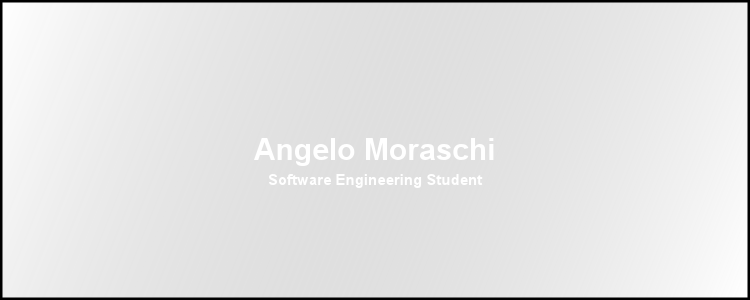
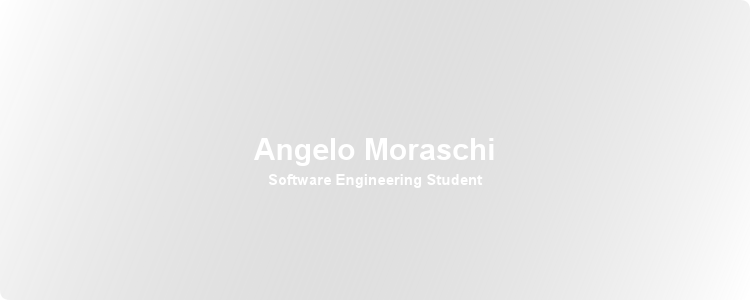
Add round corners

Changed region(s): [[0.0, 0.0, 1.0, 1.0]]

diff --git a/test/generateProfile.js b/test/generateProfile.js
@@ -4,16 +4,27 @@ import { writeFileSync } from 'fs'
 const canvas = createCanvas(750, 300)
 const ctx = canvas.getContext('2d')
 
+const radius = 10
+
+ctx.beginPath()
+ctx.moveTo(0, 0)
+ctx.lineTo(canvas.width - radius, 0)
+ctx.quadraticCurveTo(canvas.width, 0, canvas.width, radius)
+ctx.lineTo(canvas.width, canvas.height - radius)
+ctx.quadraticCurveTo(canvas.width, canvas.height, canvas.width - radius, canvas.height)
+ctx.lineTo(radius, canvas.height)
+ctx.quadraticCurveTo(0, canvas.height, 0, canvas.height - radius)
+ctx.lineTo(0, radius)
+ctx.quadraticCurveTo(0, 0, radius, 0)
+ctx.closePath()
+ctx.clip()
+
 const gradient = ctx.createLinearGradient(0, 0, canvas.width, canvas.height)
 
 gradient.addColorStop(0, 'rgba(0, 0, 0, 0)')
 gradient.addColorStop(1, 'rgba(255, 255, 255, 0.5)')
 ctx.fillStyle = gradient
 ctx.fillRect(0, 0, canvas.width, canvas.height)
-
-ctx.strokeStyle = 'rgba(0, 0, 0, 1)'
-ctx.lineWidth = 5
-ctx.strokeRect(0, 0, canvas.width, canvas.height)
 
 ctx.font = 'bold 30px Arial'
 ctx.fillStyle = 'white'
